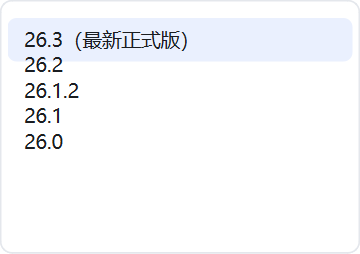
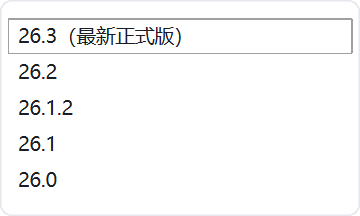
fix(GUI 下拉): 撤掉自绘代理 —— 它算的行高(29)与视图布局步进(17)不一致，导致每行压住下一行 11px 文字重叠；改用纯样式表(24px 不重叠)

Changed region(s): [[0.0, 0.0833, 1.0, 0.3889], [0.0306, 0.4167, 0.2139, 0.7222], [0.0306, 0.7778, 0.1833, 0.8889]]

diff --git a/src/modcheck/gui/theme.py b/src/modcheck/gui/theme.py
@@ -8,7 +8,7 @@ from __future__ import annotations
 
 from PyQt6.QtCore import Qt
 from PyQt6.QtGui import QColor, QFont
-from PyQt6.QtWidgets import (QHBoxLayout, QLabel, QStyle, QStyledItemDelegate, QWidget)
+from PyQt6.QtWidgets import QHBoxLayout, QLabel, QWidget
 
 # ---------------------------------------------------------------- 颜色
 BG = "#F4F5F7"          # 窗口底
@@ -126,46 +126,6 @@ QPushButton#primary:focus {{ border: 1px solid {ACCENT_DARK}; }}
 """
 
 
-class _PopupItemDelegate(QStyledItemDelegate):
-    """下拉弹层的条目自绘。
-
-    为什么需要它：Fusion 样式会给「当前项」画一个**直角焦点框**，
-    而且那个框**样式表管不到** —— 试过 ::item 的 border / outline、
-    控件级样式、去掉视图焦点、NoFrame + lineWidth(0)，方框依旧在
-    （用户看到的就是"右侧和下侧两条线特别明显"）。
-
-    与其继续和样式引擎较劲，不如自己画：**只画圆角底色和文字，不画任何边框**。
-    """
-
-    def paint(self, painter, option, index) -> None:
-        from PyQt6.QtCore import QRectF
-        from PyQt6.QtGui import QPalette
-
-        painter.save()
-        rect = QRectF(option.rect).adjusted(2, 2, -2, -2)
-        selected = bool(option.state & QStyle.StateFlag.State_Selected)
-        if selected:
-            painter.setPen(Qt.PenStyle.NoPen)
-            painter.setBrush(QColor(ACCENT_SOFT))
-            painter.drawRoundedRect(rect, 6, 6)
-        painter.setPen(QColor(TEXT if selected else TEXT))
-        painter.drawText(option.rect.adjusted(10, 0, -8, 0),
-                         int(Qt.AlignmentFlag.AlignVCenter | Qt.AlignmentFlag.AlignLeft),
-                         str(index.data() or ""))
-        painter.restore()
-
-    def sizeHint(self, option, index):                 # noqa: D102
-        """行高必须按**字体真实高度**算。
-
-        ⚠ 两个极端都错过一次：
-          · 硬编码 28 像素 -> 不同 DPI/字号下会**纵向重叠**，文字糊成一团；
-          · 干脆不覆写 -> 自绘时行高不够，同样重叠（用户两次都看到了）。
-        正确做法是取 option.fontMetrics.height() 再加上下留白。
-        """
-        size = super().sizeHint(option, index)
-        size.setHeight(max(size.height(), option.fontMetrics.height() + 12))
-        return size
-
 
 def style_combo_popup(combo) -> None:
     """给下拉框的弹层容器套上主题圆角边框。
@@ -190,10 +150,16 @@ def style_combo_popup(combo) -> None:
         container.setMidLineWidth(0)
         container.setStyleSheet(
             f"QFrame {{ background: {CARD}; border: 1px solid {BORDER}; border-radius: 8px; }}")
-    # 自绘条目：不再依赖样式表去"盖住"那个焦点框（盖不住，实测过四种写法）
-    combo.view().setItemDelegate(_PopupItemDelegate(combo.view()))
+    # ⚠ **不要给弹层设自绘代理**。
+    # 我为了消掉 Fusion 的焦点方框上过自绘代理，结果引入了一个严重得多的问题：
+    # 代理算出的行高（29px）与视图的布局步进（17px）不一致 ——
+    # 每行压住下一行 11 像素，**文字纵向重叠到看不清**（实测：间距 = -11）。
+    # 用户明确说"美观还好，但一定不能重叠"，所以这里只用样式表。
+    # 代价是当前项可能仍有一圈方框，可接受；**再也不要为了它上代理**。
     combo.view().setStyleSheet(
-        f"QListView {{ background: transparent; border: none; outline: none; }}")
+        f"QListView {{ background: transparent; border: none; outline: none; }}"
+        f"QListView::item {{ padding: 5px 10px; border: none; border-radius: 6px; }}"
+        f"QListView::item:selected {{ background: {ACCENT_SOFT}; color: {TEXT}; }}")
 
 
 def _arrow_qss() -> str:

diff --git a/docs/design/probe_combo_fix.py b/docs/design/probe_combo_fix.py
@@ -1,0 +1,39 @@
+# -*- coding: utf-8 -*-
+"""找出真正能让行高与布局步进一致的做法。"""
+import os, sys
+from pathlib import Path
+ROOT = Path(r"D:\Programme\python_prgram\mod-version-checker")
+sys.path.insert(0, str(ROOT / "src"))
+os.environ["QT_QPA_PLATFORM"] = "windows"
+from PyQt6.QtWidgets import QApplication, QComboBox
+from modcheck.gui import theme
+app = QApplication(sys.argv); app.setStyle("Fusion"); app.setStyleSheet(theme.QSS)
+ITEMS = ["26.3", "26.2", "26.1.2", "26.1", "26.0"]
+
+def measure(build, label):
+    cb = QComboBox(); cb.resize(240, 34)
+    build(cb)
+    cb.addItems(ITEMS)
+    cb.show()
+    for _ in range(3): app.processEvents()
+    cb.showPopup()
+    for _ in range(6): app.processEvents()
+    v = cb.view()
+    rects = [v.visualRect(v.model().index(i, 0)) for i in range(v.model().rowCount())]
+    step = rects[1].top() - rects[0].top() if len(rects) > 1 else 0
+    gap = rects[1].top() - rects[0].bottom() if len(rects) > 1 else 0
+    print(f"  {label:38s} 高度={rects[0].height():3d} 步进={step:3d} 间距={gap:4d} "
+          + ("✅" if gap >= 0 else "❌ 重叠"))
+    cb.hidePopup()
+
+measure(lambda cb: theme.style_combo_popup(cb), "1) 现状（仅设代理）")
+measure(lambda cb: (theme.style_combo_popup(cb), cb.view().reset()), "2) 设完代理再 view.reset()")
+measure(lambda cb: (theme.style_combo_popup(cb), cb.view().setSpacing(0)), "3) 显式 setSpacing(0)")
+measure(lambda cb: (theme.style_combo_popup(cb), cb.view().reset(), cb.view().setSpacing(0)), "4) reset + setSpacing(0)")
+measure(lambda cb: (theme.style_combo_popup(cb), cb.view().setUniformItemSizes(True), cb.view().reset()),
+        "5) setUniformItemSizes(True) + reset")
+def no_sizehint(cb):
+    theme.style_combo_popup(cb)
+    cb.view().setItemDelegate(theme._PopupItemDelegate(cb.view()))
+    cb.view().reset()
+measure(no_sizehint, "6) 重设代理 + reset")

diff --git a/docs/design/probe_combo_cmp.py b/docs/design/probe_combo_cmp.py
@@ -1,0 +1,37 @@
+# -*- coding: utf-8 -*-
+"""对比：自绘代理 vs 纯样式表 vs 完全不干预。"""
+import os, sys
+from pathlib import Path
+ROOT = Path(r"D:\Programme\python_prgram\mod-version-checker")
+sys.path.insert(0, str(ROOT / "src"))
+os.environ["QT_QPA_PLATFORM"] = "windows"
+from PyQt6.QtWidgets import QApplication, QComboBox
+from modcheck.gui import theme
+app = QApplication(sys.argv); app.setStyle("Fusion"); app.setStyleSheet(theme.QSS)
+ITEMS = ["26.3", "26.2", "26.1.2", "26.1", "26.0"]
+
+def measure(build, label):
+    cb = QComboBox(); cb.resize(240, 34); build(cb); cb.addItems(ITEMS)
+    cb.show()
+    for _ in range(3): app.processEvents()
+    cb.showPopup()
+    for _ in range(6): app.processEvents()
+    v = cb.view()
+    rects = [v.visualRect(v.model().index(i, 0)) for i in range(v.model().rowCount())]
+    step = rects[1].top() - rects[0].top()
+    gap = rects[1].top() - rects[0].bottom()
+    print(f"  {label:40s} 高度={rects[0].height():3d} 步进={step:3d} 间距={gap:3d} "
+          + ("✅ 不重叠" if gap >= 0 else "❌ 重叠"))
+    cb.hidePopup()
+
+measure(lambda cb: theme.style_combo_popup(cb), "1) 自绘代理（现状）")
+measure(lambda cb: (theme.style_combo_popup(cb), cb.view().setUniformItemSizes(True)),
+        "2) 自绘代理 + uniform")
+measure(lambda cb: None, "3) 完全不干预（原生）")
+def qss_only(cb):
+    v = cb.view()
+    v.setStyleSheet("QListView{background:#fff;border:1px solid #E4E7EC;border-radius:8px;padding:4px;}"
+                    "QListView::item{padding:8px 10px;border:none;border-radius:6px;}"
+                    "QListView::item:selected{background:#EAF0FE;}")
+measure(qss_only, "4) 只用样式表（无代理）")
+measure(lambda cb: (cb.view().setUniformItemSizes(True)), "5) 原生 + uniform")

diff --git a/docs/design/probe_combo_tall.py b/docs/design/probe_combo_tall.py
@@ -1,0 +1,41 @@
+# -*- coding: utf-8 -*-
+"""在 setUniformItemSizes 基础上，把行高调到舒服的值。"""
+import os, sys
+from pathlib import Path
+ROOT = Path(r"D:\Programme\python_prgram\mod-version-checker")
+sys.path.insert(0, str(ROOT / "src"))
+os.environ["QT_QPA_PLATFORM"] = "windows"
+from PyQt6.QtCore import QSize
+from PyQt6.QtWidgets import QApplication, QComboBox
+from modcheck.gui import theme
+app = QApplication(sys.argv); app.setStyle("Fusion"); app.setStyleSheet(theme.QSS)
+ITEMS = ["26.3", "26.2", "26.1.2", "26.1", "26.0"]
+
+def measure(build, label):
+    cb = QComboBox(); cb.resize(240, 34); build(cb); cb.addItems(ITEMS)
+    cb.show()
+    for _ in range(3): app.processEvents()
+    cb.showPopup()
+    for _ in range(6): app.processEvents()
+    v = cb.view()
+    rects = [v.visualRect(v.model().index(i, 0)) for i in range(v.model().rowCount())]
+    step = rects[1].top() - rects[0].top()
+    gap = rects[1].top() - rects[0].bottom()
+    print(f"  {label:44s} 高度={rects[0].height():3d} 步进={step:3d} 间距={gap:3d} "
+          + ("✅" if gap >= 0 else "❌"))
+    cb.hidePopup()
+
+def base(cb):
+    theme.style_combo_popup(cb)
+    cb.view().setUniformItemSizes(True)
+
+measure(base, "A) uniform 现状")
+measure(lambda cb: (base(cb), cb.view().setStyleSheet(
+    cb.view().styleSheet() + "QListView::item{padding:8px 10px;}")), "B) uniform + item padding 8px")
+
+class Tall(theme._PopupItemDelegate):
+    def sizeHint(self, option, index):
+        return QSize(super().sizeHint(option, index).width(), 30)
+measure(lambda cb: (theme.style_combo_popup(cb), cb.view().setUniformItemSizes(True),
+                    cb.view().setItemDelegate(Tall(cb.view())), cb.view().reset()),
+        "C) uniform + 代理返回 30px")

diff --git a/docs/design/probe_combo_rows.py b/docs/design/probe_combo_rows.py
@@ -1,0 +1,39 @@
+# -*- coding: utf-8 -*-
+"""量化验证：下拉各行是否**纵向重叠**（不靠肉眼）。"""
+import os, sys
+from pathlib import Path
+ROOT = Path(r"D:\Programme\python_prgram\mod-version-checker")
+sys.path.insert(0, str(ROOT / "src"))
+os.environ["QT_QPA_PLATFORM"] = "windows"
+from PyQt6.QtWidgets import QApplication, QComboBox
+from modcheck.gui import theme
+app = QApplication(sys.argv); app.setStyle("Fusion"); app.setStyleSheet(theme.QSS)
+
+def rows(cb, label):
+    cb.show()
+    for _ in range(3): app.processEvents()
+    cb.showPopup()
+    for _ in range(5): app.processEvents()
+    v = cb.view()
+    rects = [v.visualRect(v.model().index(i, 0)) for i in range(v.model().rowCount())]
+    heights = [r.height() for r in rects]
+    gaps = [rects[i+1].top() - rects[i].bottom() for i in range(len(rects)-1)]
+    h = v.sizeHintForRow(0)
+    ok = all(g >= 0 for g in gaps) and h >= 20
+    print(f"  {label}: 行高={heights[:3]}... sizeHintForRow={h} 行间距={gaps[:4]} ->",
+          "✅ 不重叠" if ok else "❌ 重叠/过矮")
+    cb.hidePopup()
+    return ok
+
+# 情形 A：先 addItems 再 style（这正是当前代码的顺序）
+cb1 = QComboBox(); cb1.addItems(["26.3","26.2","26.1.2","26.1","26.0"]); cb1.resize(240,34)
+theme.style_combo_popup(cb1)
+a = rows(cb1, "A 先加条目后设代理（当前顺序）")
+
+# 情形 B：先设代理再 addItems
+cb2 = QComboBox(); cb2.resize(240,34); theme.style_combo_popup(cb2)
+cb2.addItems(["26.3","26.2","26.1.2","26.1","26.0"])
+b = rows(cb2, "B 先设代理后加条目")
+
+print()
+print("结论：", "顺序确实是原因 ✅" if (b and not a) else ("两者都不重叠（顺序不是原因）" if (a and b) else "两者都重叠"))
